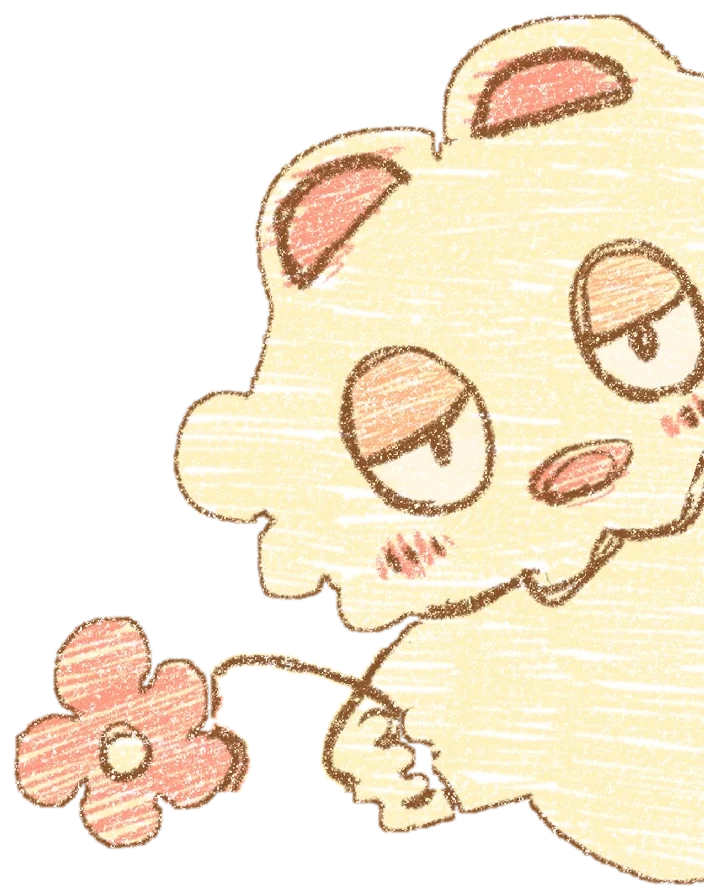
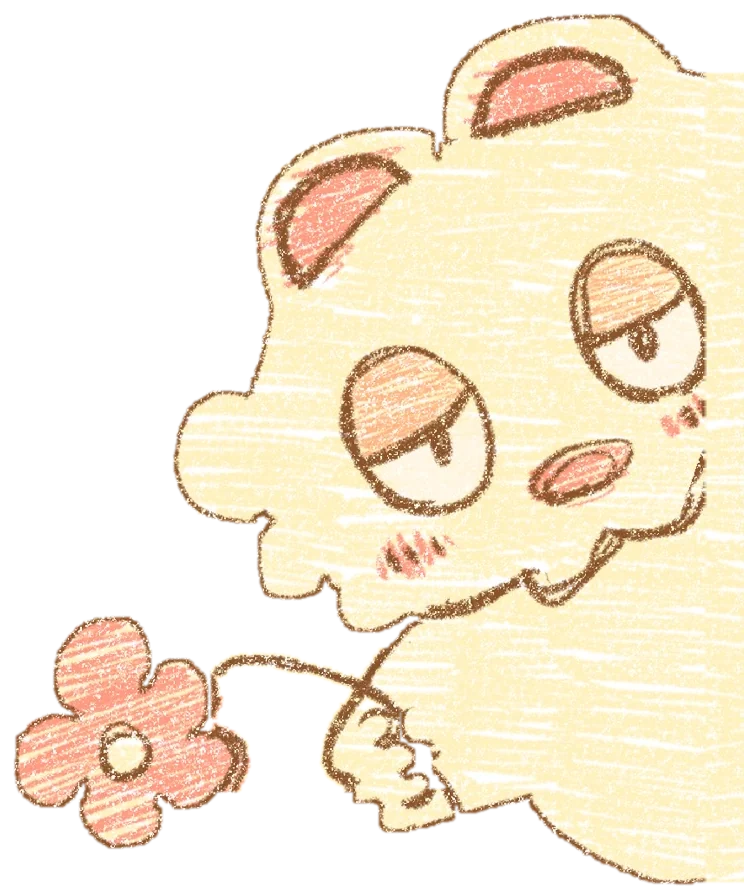
ホーム編集

Changed region(s): [[0.0, 0.0, 1.0, 0.9955], [0.7188, 0.2112, 0.75, 0.2413], [0.5938, 0.2413, 0.625, 0.2715]]

diff --git a/src/styles/global.css b/src/styles/global.css
@@ -701,15 +701,19 @@ section {
   color: var(--sumi-soft);
 }
 
-/* 【J-5 / J-10】キャラクター2体の置き場所。
+/* 【J-5 / J-10 / J-12】キャラクター2体の置き場所。
    メイン（フライヤーのキャラ）の画像はフライヤーから切り抜いたもので、
    右端がまっすぐ切れている（＝画面の右端からのぞき込む構図用）。
-   【J-6】ゆらゆら首をかしげると、切れた右端が画面の内側に入り込み、
-   右に隙間が見えていた。画像を画面の右端より 24px 外まで大きめに
-   はみ出させておき（.hero の overflow:hidden で隠れる）、揺れても
-   切れ目が画面内に入らないようにする。揺れ幅 2.2° の場合、右端の
-   動きは最大でもキャラの高さ×0.8×sin2.2° ≒ 17px（幅420px時）なので、
-   24px あれば足りる（検証で実測済み）。
+   【J-12】ゆらゆら首をかしげると、切れた右端が画面の内側に入り込んで
+   隙間が見える問題（J-6）への対処を変更。以前は「キャラ本体を画面の
+   外へ 24px 押し出して隠す」方式だったため、スマホでは顔の右側が
+   隠れすぎていた（施主指摘）。今回は画像そのものの右側に、キャラの
+   塗り（クレヨンの黄色）を 40px 足して「補填」した（chara.webp は
+   704px の本体＋40px の補填＝744px）。画面外にはみ出させるのは補填部分
+   だけなので、本体はフライヤーと同じ範囲まで全部見える。揺れて右端が
+   内側に入っても、見えるのは補填した塗りで、隙間にはならない
+   （揺れ 2.2° での右端の動きは最大でも本体の高さの約3%＝補填の約半分）。
+   --chara-w は「本体（補填を除く）」の表示幅。
    スマホ〜タブレット：文字の下に横並び（左に猫・右にメイン）。
    縦に積むだけなので、どの幅でも文字とは重ならない。 */
 .hero-friends {
@@ -737,9 +741,10 @@ section {
 }
 
 .hero-chara {
-  width: min(46vw, 250px);
-  /* 右端の外へ 24px はみ出させる（J-6） */
-  margin-right: -24px;
+  --chara-w: min(50vw, 260px);
+  /* 補填ぶん（本体の 40/704）だけ幅を足し、同じ量を画面の外へ出す */
+  width: calc(var(--chara-w) * 744 / 704);
+  margin-right: calc(var(--chara-w) * -40 / 704);
   line-height: 0;
 }
 
@@ -747,7 +752,9 @@ section {
   display: block;
   width: 100%;
   height: auto;
-  transform-origin: 100% 80%;
+  /* 回転の軸は「本体の右端」（= 画面の右端）の高さ80%の位置。
+     画像全体（744px）のうち本体の右端は 704/744 ≒ 94.6% の位置 */
+  transform-origin: 94.6% 80%;
   filter: drop-shadow(0 8px 14px rgba(62, 65, 54, 0.12));
 }
 
@@ -763,14 +770,14 @@ section {
   }
 
   .hero-chara {
+    --chara-w: clamp(300px, 25vw, 420px);
     position: absolute;
-    right: -24px;
+    right: calc(var(--chara-w) * -40 / 704);
     margin: 0;
-    width: clamp(300px, 25vw, 420px);
-    /* 画像の縦横比は 704:895。キャラの高さの約42%ぶん上へずらして、
+    /* 本体の縦横比は 704:895。キャラの高さの約42%ぶん上へずらして、
        顔が縦中央あたりに来るようにする。transform は入場アニメ
        （framer-motion）が使うので、ここでは top の計算でずらす。 */
-    top: calc(50% - clamp(160px, 13.35vw, 224px));
+    top: calc(50% - var(--chara-w) * 0.534);
   }
 
   .hero-cat-side {
